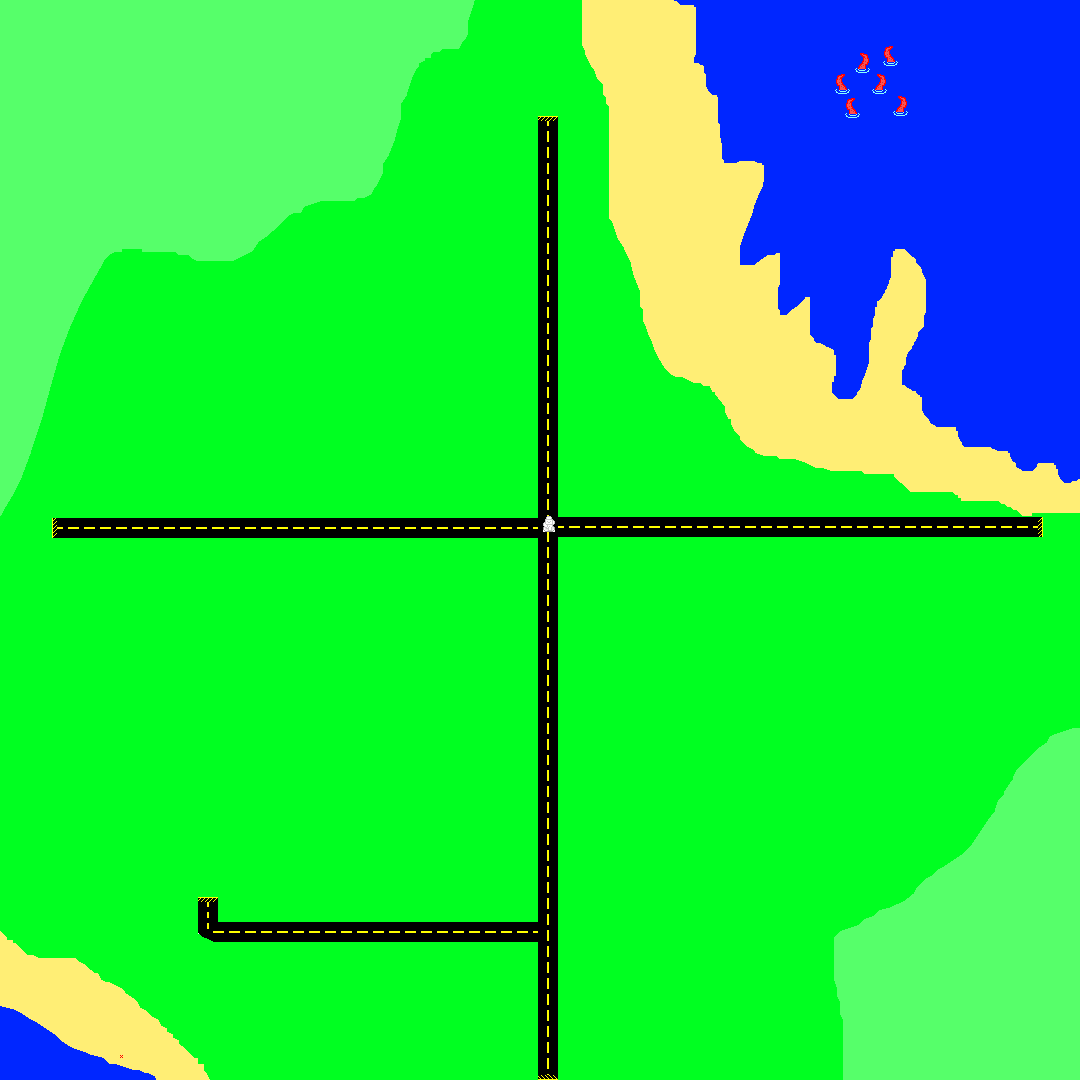
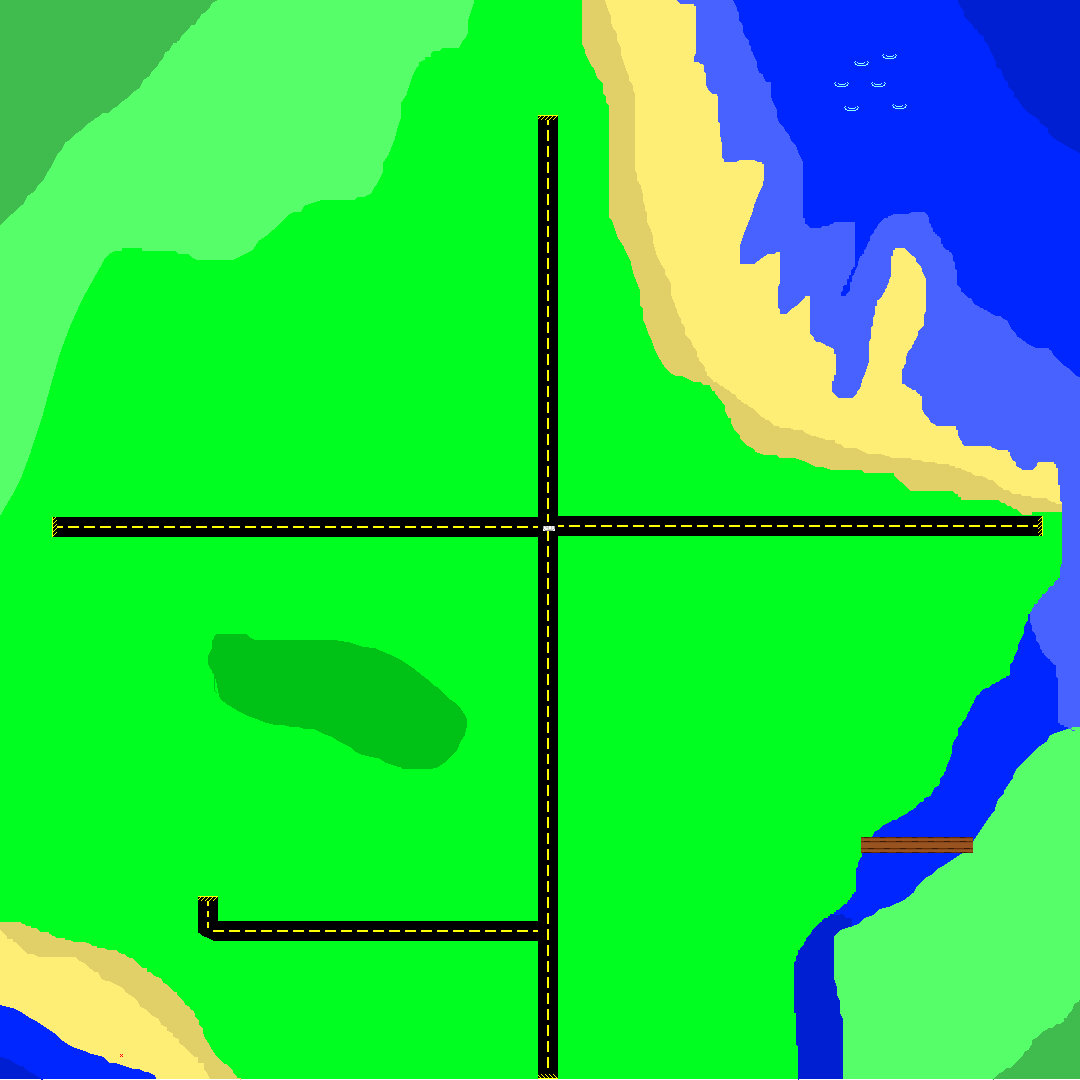
Goin good

diff --git a/Game_01/src/code/Loop.java b/Game_01/src/code/Loop.java
@@ -17,26 +17,30 @@ public class Loop extends Applet implements Runnable, KeyListener{
 	public Image offscreen;
 	public Graphics d;
 	public boolean up, down, left, right;
-	public BufferedImage wleft, wright, wup, wdo, rri, rle, back, still, rs, him, map;
+	public BufferedImage wleft, wright, wup, wdo, rri, rle, back, still, rs, him, map,ls, fore, Hrt;
 	public int counter;
 	public int LeftA;
 	public int UpA;
 	public int DownA;
-	public int Health;
+	public int Health=10;
+	
+
 	public void run() {
 		x = 100;
 		y = 100; //1:50 if Background wanted http://www.youtube.com/watch?v=dabnz7NSiUc
 		try {
+		fore = ImageIO.read(new File("Map_F.png"));
 		map = ImageIO.read(new File("Map.png"));
-		rle = ImageIO.read(new File("MainCharLeftRun.png"));
-		rri= ImageIO.read(new File("MainCharRightRun.png"));
-		wup= ImageIO.read(new File("MainCharRunBack.png"));
-		wdo= ImageIO.read(new File("MainChar.png"));
-		wright=ImageIO.read(new File("MainCharRight.png"));
-		wleft=ImageIO.read(new File("MainCharLeft.png"));
-		back=ImageIO.read(new File("MainCharBack.png"));
-		still=ImageIO.read(new File("MainCharStill.png"));
-		rs= ImageIO.read(new File("MainCharRightStill.png"));
+		rle = ImageIO.read(new File("MainCharRightRun.png")); //c
+		rri= ImageIO.read(new File("MainCharLeftRun.png"));//-
+		wup= ImageIO.read(new File("MainChar.png"));//c
+		wdo= ImageIO.read(new File("MainCharRunBack.png"));//-
+		wright=ImageIO.read(new File("MainCharLeft.png"));//c
+		wleft=ImageIO.read(new File("MainCharRight.png"));//-
+		back=ImageIO.read(new File("MainCharStill.png"));//c
+		still=ImageIO.read(new File("MainCharBack.png"));//-
+		rs= ImageIO.read(new File("MainCharLeftStill.png"));//c
+		ls= ImageIO.read(new File("MainCharRightStill.png"));//-
 		} catch (IOException e1) {
 			e1.printStackTrace();
 		}
@@ -59,7 +63,7 @@ public class Loop extends Applet implements Runnable, KeyListener{
 				him=wright;
 			}
 			LeftA++; 
-			if (LeftA >= 30){
+			if (LeftA >= 40){
 				LeftA=0;
 			}
 			if (LeftA >= 10 && LeftA <= 20 && left == true){
@@ -68,7 +72,10 @@ public class Loop extends Applet implements Runnable, KeyListener{
 			if (LeftA <= 20 && LeftA >=10 && left == true){
 				him=rle;
 			}
-			if (LeftA >= 20 && LeftA <= 30 && left == true){
+			if (LeftA <=30 && LeftA >=40 && left==true){
+				him=ls;
+			}
+			if (LeftA >= 30 && LeftA <= 40 && left == true){
 				him=wleft;
 			}
 			UpA++; 
@@ -76,7 +83,7 @@ public class Loop extends Applet implements Runnable, KeyListener{
 				UpA=0;
 			}
 			if (UpA >= 10 && UpA <= 20 && up == true){
-				him=wup;
+				him=wup; //wup
 			}
 			if (UpA <= 20 && UpA >=10 && up == true){
 				him=back;
@@ -111,42 +118,79 @@ public class Loop extends Applet implements Runnable, KeyListener{
 			}
 			repaint();
 			try {
-				Thread.sleep(10); //Standard 20, makes you go faster
+				Thread.sleep(01); //Standard 20, makes you go faster
 			} catch (InterruptedException e) {
 				e.printStackTrace();
 			} }
 		}
 	public void keyPressed(KeyEvent e) { //If Incorrect, e = "arg0"
-		if (e.getKeyCode() == 65 ){
+		if (e.getKeyCode() == 68 ){ //left
 			left = true;
 		}
-		if (e.getKeyCode() == 68 ){
+		if (e.getKeyCode() == 65 ){ //right
 			right = true;
 		}
-		if (e.getKeyCode() == 87 ){
+		if (e.getKeyCode() == 83 ){ //up
 			up = true;
 		}
-		if (e.getKeyCode() == 83 ){
+		if (e.getKeyCode() == 87 ){ //down
 			down = true;
 		}
 	}
 	public void keyReleased(KeyEvent e) {
-		if (e.getKeyCode() == 65 ){
+		if (e.getKeyCode() == 68 ){
 			left = false;
 			him = rle;
 		}
-		if (e.getKeyCode() == 68 ){
+		if (e.getKeyCode() == 65 ){
 				right = false;
 				him = rri;
 			}
-		if (e.getKeyCode() == 87 ){
+		if (e.getKeyCode() == 83 ){
 				up = false;
 				him = wup;
 			}
-		if (e.getKeyCode() == 83 ){
+		if (e.getKeyCode() == 87 ){
 				down = false;
 				him = wdo;
 			}			
 		}
 	public void keyTyped(KeyEvent e) {}
+
+	public void Health() throws IOException{
+		if (Health==10){
+			Hrt=ImageIO.read(new File("H10.png"));
+		}
+		if (Health==9){
+			Hrt=ImageIO.read(new File("H9.png"));
+		}
+		if (Health==8){
+			Hrt=ImageIO.read(new File("H8.png"));
+		}
+		if (Health==7){
+			Hrt=ImageIO.read(new File("H7.png"));
+		}
+		if (Health==6){
+			Hrt=ImageIO.read(new File("H6.png"));
+		}
+		if (Health==5){
+			Hrt=ImageIO.read(new File("H5.png"));
+		}		
+		if (Health==4){
+			Hrt=ImageIO.read(new File("H4.png"));
+		}
+		if (Health==3){
+			Hrt=ImageIO.read(new File("H3.png"));
+		}
+		if (Health==2){
+			Hrt=ImageIO.read(new File("H2.png"));
+		}
+		if (Health==1){
+			Hrt=ImageIO.read(new File("H1.png"));
+		}
+		if (Health==0){
+			Hrt=ImageIO.read(new File("H0.png"));
+		}
+	System.out.println(Health);
+	}	
 }

diff --git a/Game_01/src/code/Skeleton.java b/Game_01/src/code/Skeleton.java
@@ -15,7 +15,7 @@ public class Skeleton extends Loop{ //Should extend Applet?
 	}
 	
 Image image=null;
-public static final int HEIGHT = 120; //Original Height/Width= "120 x 160"
+public static final int HEIGHT = 160; //Original Height/Width= "120 x 160"
 public static final int WIDTH = 160;
 public static final String TITLE= "Test Game BETA";
 public static final int SCALE = 3;
@@ -23,9 +23,11 @@ public static final int SCALE = 3;
 boolean menu=true;
 
 public void paint(Graphics g) {
-	d.clearRect(0, 0, 1080, 1080); //Error Here, Scale perhaps? -Disregard //0, 0, 160, 120
-	d.drawImage(him, x, y,60, 60, this); 
-	//d.drawImage(him, x, y,60, 60, this);     //12:17 http://www.youtube.com/watch?v=XmRD0PlAXEY
+	d.clearRect(0, 0, 160, 160); //Error Here, Scale perhaps? -Disregard //0, 0, 160, 120
+	d.drawImage(map, x,y, 6480, 6480, this); //6480 //548 545
+	d.drawImage(him,440, 440, 60, 60, this);    //12:17 http://www.youtube.com/watch?v=XmRD0PlAXEY
+	d.drawImage(fore, x,y, 6480, 6480, this);
+	d.drawImage(Hrt, 0,0, 150, 150, this);
 	g.drawImage(offscreen, 0, 0, this);
 }	
 	public void update(Graphics g){  //http://www.javacodegeeks.com/2011/08/eclipse-how-attach-java-source.html
